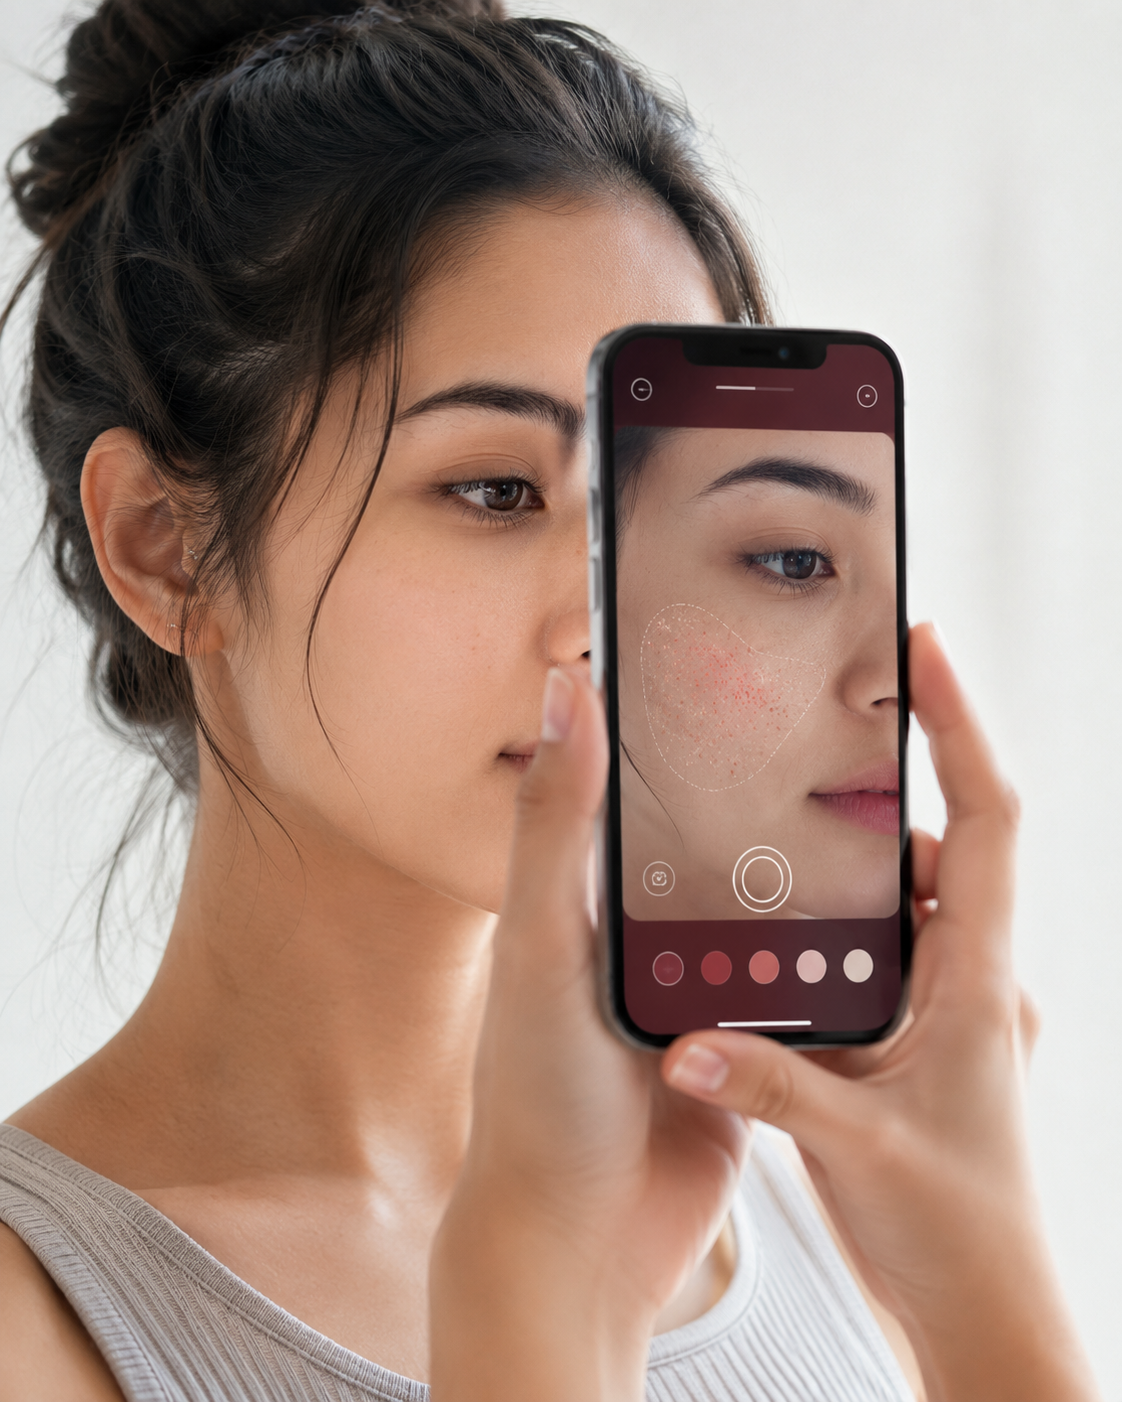
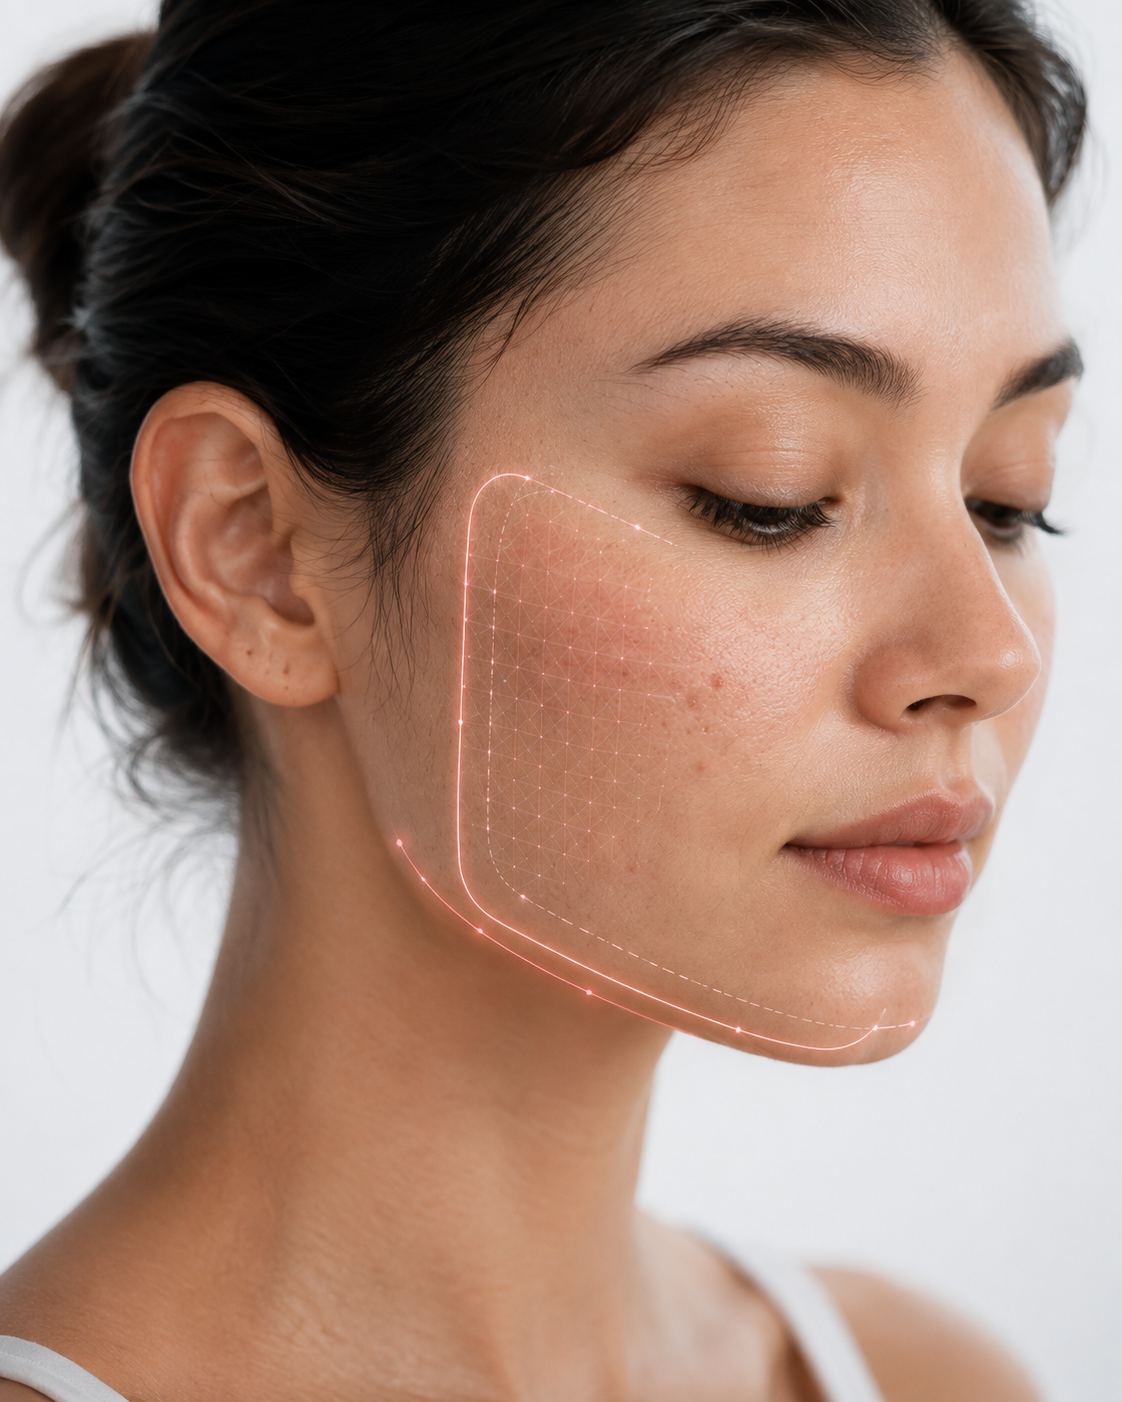
feat: remove capabilities bento section (no images)

diff --git a/frontend/src/pages/LandingPage.tsx b/frontend/src/pages/LandingPage.tsx
@@ -1,6 +1,5 @@
 import React, { useEffect, useRef, useState } from 'react';
-import { Sparkles, ChevronRight, Shield, Clock, Zap, SunMoon, Camera, ScanFace, Activity, FileText, Check, Sun, Moon, Droplets } from 'lucide-react';
-import { ProgressRing } from '../components/ui/ProgressRing';
+import { Sparkles, ChevronRight, Shield, Clock, SunMoon, Camera, ScanFace, Activity, FileText, Sun, Moon } from 'lucide-react';
 
 const DELAY = (i: number) => ({ ['--reveal-delay' as string]: `${i * 60}ms` });
 
@@ -59,11 +58,6 @@ export default function LandingPage({ onLogin, onSignup }: { onLogin: () => void
     { slug: 'analyze', icon: ScanFace, title: 'Analyze', desc: 'Computer-vision models map lesions, tone, and texture in under two seconds.' },
     { slug: 'score', icon: Activity, title: 'Score', desc: 'Acne, pigmentation, and hydration are scored against a clinical severity scale.' },
     { slug: 'report', icon: FileText, title: 'Report', desc: 'Get an AM/PM skincare routine with product matches tailored to your skin type.' },
-  ];
-
-  const routine = [
-    { time: 'AM', label: 'Gentle cleanser, azelaic acid, SPF 50+' },
-    { time: 'PM', label: 'Salicylic acid 2% spot treatment, ceramide moisturizer' },
   ];
 
   return (
@@ -253,158 +247,6 @@ export default function LandingPage({ onLogin, onSignup }: { onLogin: () => void
         </div>
       </section>
 
-      {/* Capabilities */}
-      <section className="px-6 max-w-7xl mx-auto pb-24 md:pb-28">
-        <div className="max-w-2xl">
-          <h2 className="font-sans text-3xl md:text-4xl font-bold tracking-tight text-gray-900">Everything a skin exam measures</h2>
-          <p className="mt-4 text-lg leading-relaxed text-gray-600">
-            The same indicators a dermatologist checks, quantified by computer vision.
-          </p>
-        </div>
-
-        <div className="mt-12 grid grid-cols-1 lg:grid-cols-12 gap-4">
-          {/* Acne detection */}
-          <div className="lg:col-span-7 t-scroll-reveal rounded-xl border border-gray-200 bg-white overflow-hidden">
-            <div className="aspect-[4/3] bg-gray-100">
-              <img
-                src="/cap-detection.jpg"
-                alt="Acne lesion detection with bounding-box markers"
-                className="w-full h-full object-cover"
-                loading="lazy"
-                width={836}
-                height={627}
-              />
-            </div>
-            <div className="p-7 md:p-8">
-              <div className="flex items-center gap-3">
-                <div className="w-9 h-9 rounded-lg bg-gray-100 flex items-center justify-center">
-                  <ScanFace className="w-4.5 h-4.5 text-primary-700" />
-                </div>
-                <h3 className="text-lg font-semibold text-gray-900">Acne detection</h3>
-              </div>
-              <p className="mt-3 text-sm leading-relaxed text-gray-600 max-w-lg">
-                Identifies papules, pustules, blackheads, and comedones with bounding-box precision on a clinical severity scale.
-              </p>
-            </div>
-          </div>
-
-          {/* Severity scoring */}
-          <div className="lg:col-span-5 t-scroll-reveal rounded-xl border border-gray-200 bg-white p-7 md:p-8 flex flex-col">
-            <div className="flex items-center gap-3">
-              <div className="w-9 h-9 rounded-lg bg-gray-100 flex items-center justify-center">
-                <Activity className="w-4.5 h-4.5 text-primary-700" />
-              </div>
-              <h3 className="text-lg font-semibold text-gray-900">Severity scoring</h3>
-            </div>
-            <p className="mt-3 text-sm leading-relaxed text-gray-600">
-              Lesion counts and types aggregate into a mild-to-severe score you can track between scans.
-            </p>
-            <div className="mt-auto pt-6 flex items-center gap-6">
-              <div className="w-28 h-28">
-                <ProgressRing value={62} size={110} strokeWidth={8} color="#880d1e" bgColor="rgba(136,13,30,0.12)" label="Moderate" />
-              </div>
-              <div className="space-y-2.5 text-sm">
-                <div className="flex items-center justify-between gap-8">
-                  <span className="text-gray-600">Active lesions</span>
-                  <span className="font-semibold text-gray-900 tabular-nums">12</span>
-                </div>
-                <div className="flex items-center justify-between gap-8">
-                  <span className="text-gray-600">Zones affected</span>
-                  <span className="font-semibold text-gray-900 tabular-nums">3</span>
-                </div>
-                <div className="flex items-center justify-between gap-8">
-                  <span className="text-gray-600">Trend vs last scan</span>
-                  <span className="font-semibold text-gray-900 tabular-nums">-18%</span>
-                </div>
-              </div>
-            </div>
-          </div>
-
-          {/* Texture & hydration */}
-          <div className="lg:col-span-5 t-scroll-reveal rounded-xl border border-gray-200 bg-white overflow-hidden">
-            <div className="aspect-[4/3] bg-gray-100">
-              <img
-                src="/cap-texture.png"
-                alt="Macro view of skin texture and hydration"
-                className="w-full h-full object-cover"
-                loading="lazy"
-                width={900}
-                height={675}
-              />
-            </div>
-            <div className="p-7 md:p-8">
-              <div className="flex items-center gap-3">
-                <div className="w-9 h-9 rounded-lg bg-gray-100 flex items-center justify-center">
-                  <Droplets className="w-4.5 h-4.5 text-primary-700" />
-                </div>
-                <h3 className="text-lg font-semibold text-gray-900">Texture &amp; hydration</h3>
-              </div>
-              <p className="mt-3 text-sm leading-relaxed text-gray-600">
-                Surface roughness and barrier health estimated from texture gradients across your skin map.
-              </p>
-            </div>
-          </div>
-
-          {/* Personalized routine */}
-          <div className="lg:col-span-7 t-scroll-reveal rounded-xl border border-gray-200 bg-white overflow-hidden">
-            <div className="grid grid-cols-1 md:grid-cols-2">
-              <div className="aspect-[4/3] md:aspect-auto md:h-full bg-gray-100">
-                <img
-                  src="/cap-routine.png"
-                  alt="Skincare products flat lay"
-                  className="w-full h-full object-cover"
-                  loading="lazy"
-                  width={900}
-                  height={675}
-                />
-              </div>
-              <div className="p-7 md:p-8 bg-gray-50">
-                <div className="flex items-center gap-3">
-                  <div className="w-9 h-9 rounded-lg bg-white border border-gray-200 flex items-center justify-center">
-                    <Sparkles className="w-4.5 h-4.5 text-primary-700" />
-                  </div>
-                  <h3 className="text-lg font-semibold text-gray-900">Personalized routine</h3>
-                </div>
-                <p className="mt-3 text-sm leading-relaxed text-gray-600">
-                  Recommendations adapt to your scan history and severity trend, with product matches for your skin type. Example:
-                </p>
-                <div className="mt-5 flex flex-wrap items-center gap-2">
-                  <span className="text-xs font-medium text-gray-500">Skin type:</span>
-                  {['Dry', 'Oily', 'Combination', 'Sensitive'].map((t) => (
-                    <span
-                      key={t}
-                      className={`text-xs font-medium px-2.5 py-1 rounded-full border ${
-                        t === 'Oily'
-                          ? 'bg-white border-primary-700/25 text-primary-700'
-                          : 'bg-white border-gray-200 text-gray-500'
-                      }`}
-                    >
-                      {t}
-                    </span>
-                  ))}
-                </div>
-                <div className="mt-4 space-y-2.5">
-                  {routine.map((r) => (
-                    <div key={r.time} className="flex items-center gap-3.5 rounded-lg bg-white border border-gray-200 px-4 py-3">
-                      {r.time === 'AM' ? <Sun className="w-4 h-4 text-gray-400 shrink-0" /> : <Moon className="w-4 h-4 text-gray-400 shrink-0" />}
-                      <span className="font-mono text-xs text-gray-500 w-7 shrink-0">{r.time}</span>
-                      <span className="text-sm text-gray-700">{r.label}</span>
-                      <Check className="w-4 h-4 text-primary-700 ml-auto shrink-0" />
-                    </div>
-                  ))}
-                  <div className="flex items-center gap-3.5 rounded-lg bg-white border border-gray-200 px-4 py-3">
-                    <Sparkles className="w-4 h-4 text-primary-700 shrink-0" />
-                    <span className="text-sm text-gray-700">
-                      Recommended for <span className="font-medium text-gray-900">oily, acne-prone skin</span>:
-                      niacinamide serum, salicylic acid cleanser
-                    </span>
-                  </div>
-                </div>
-              </div>
-            </div>
-          </div>
-        </div>
-      </section>
 
       {/* CTA */}
       <section className="px-6 max-w-7xl mx-auto pb-24 md:pb-28">
